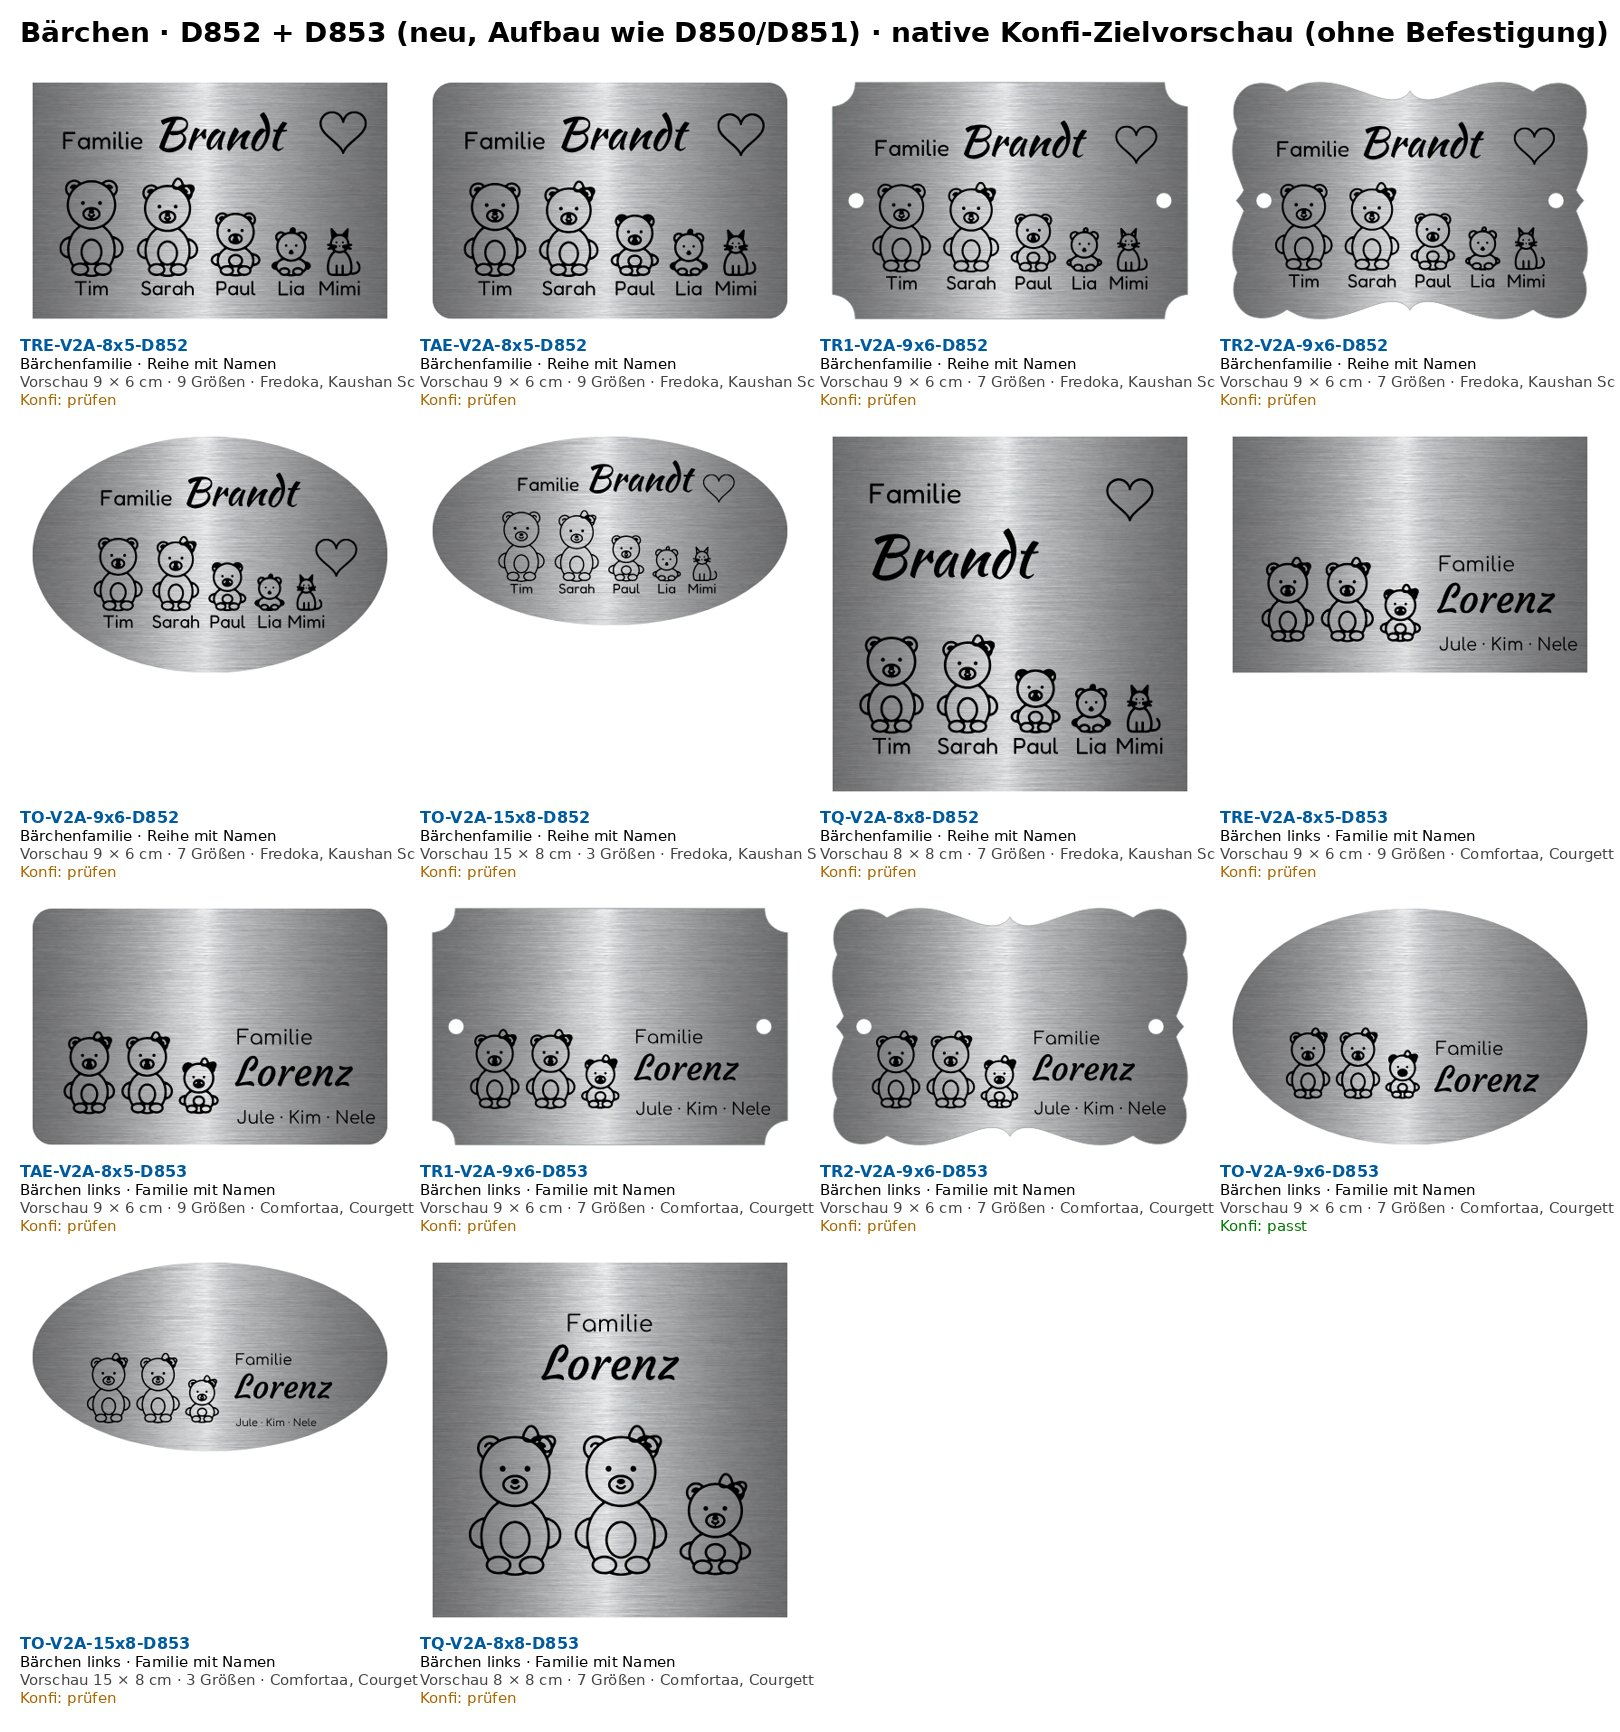
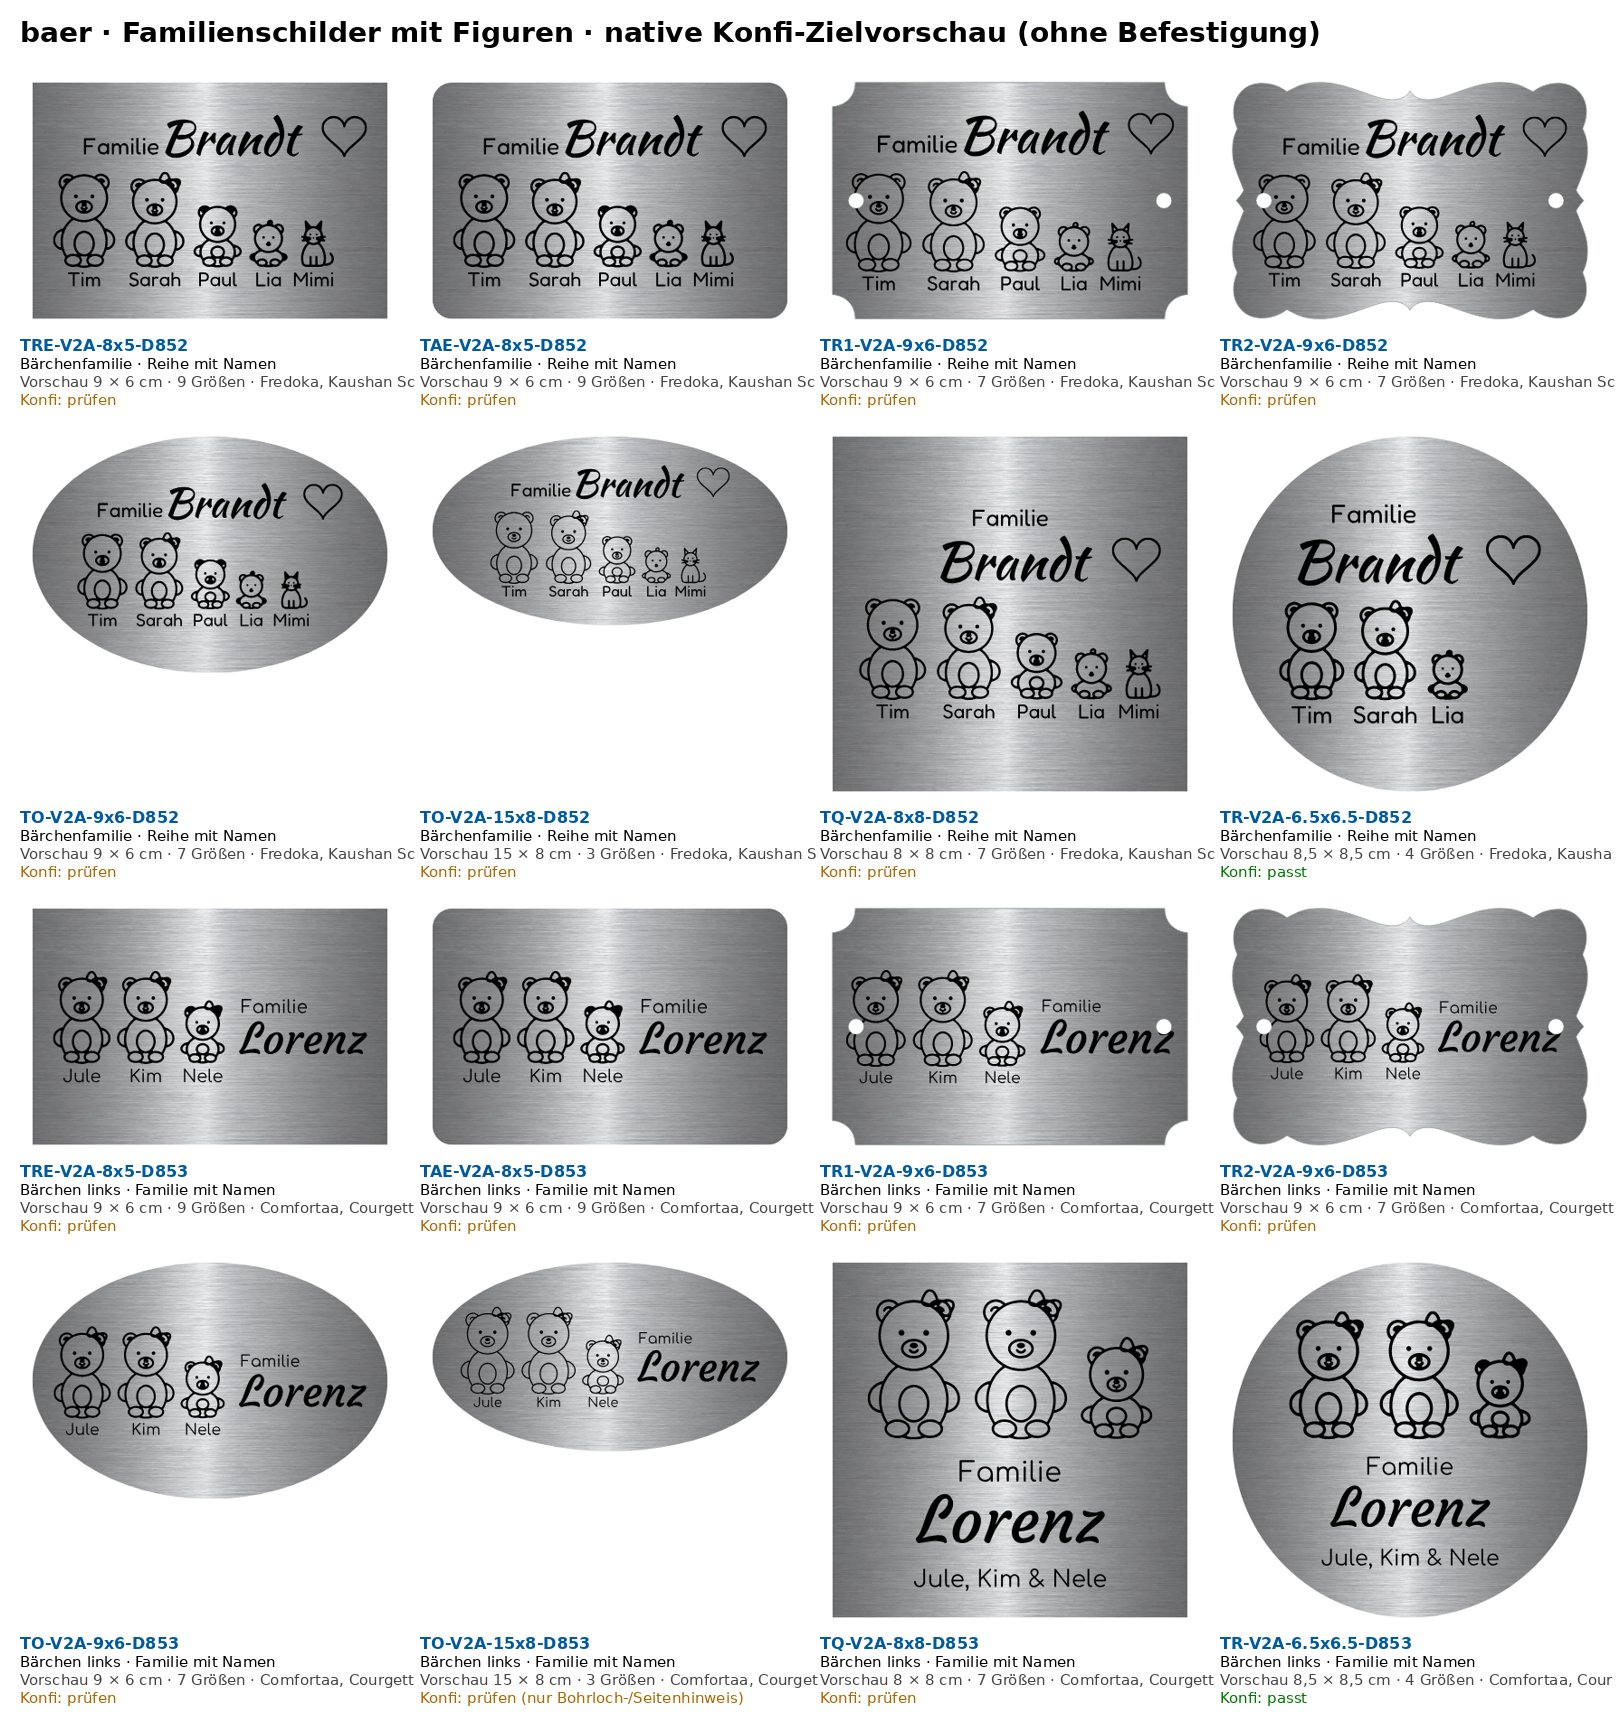
Kontaktbögen Familien-Figuren Neustart: alle 6 Stile neu gesetzt und gemessen, Bibliotheken Figuren/Pinguine, BERICHT (Issue #125)
Claude-Session: https://claude.ai/code/session_01TFZAfd3zBRL6y6PGwVXrsG

diff --git a/docs/handoffs/familien-figuren-20261102/BERICHT.md b/docs/handoffs/familien-figuren-20261102/BERICHT.md
@@ -1,0 +1,68 @@
+# Familienschilder mit Figuren und Sets – Bericht (Issue #125, Stand 02.11.2026, Neustart)
+
+Katalog-Branch `dev/familien-figuren-20261102` (Entwurfs-PR im Katalog), Kontaktbögen hier. Linie Edelstahl-Türschilder, Ziele je Design: Edelstahl + Acryl 3 mm schwarz/anthrazit (gleiche Designs). Freigabe: offen (nur Chris).
+
+## Was der Neustart geändert hat
+- Unfertiges des Vorgängers (D858/D859 ohne Bibliothek, Piktogramm-Figuren mit WC-Schild-Optik) als `git stash` „Vorgänger unfertig“ gesichert, nicht gelöscht; neu aufgebaut.
+- Katalog-main eingemischt (DESIGN-MASTER §7 „Keine großen Freiflächen, Gestaltung mittig“).
+- **Alle Designs neu gesetzt:** Titel + Figuren + Namen als Gruppe mittig, Gruppe so groß wie die Form zulässt (Rand je Form 2,2–6 mm). Jede Form hat ihre eigene Anordnung (Querformat: Titel über der Reihe bzw. Figuren links/Text rechts; Quadrat und Rund: zweizeiliger Titel, Figuren groß; Langformat: Figuren links, drei Textzeilen).
+- **„Richtige Familienschilder“ (Chris):** auf jedem Format stehen alle Familienmitglieder mit Namen – unter jeder Figur (inkl. Haustier) oder als Namenszeile („Tom, Anna & Ella“). Nachname ist immer die größte Schrift, „Familie“ bzw. „Hier wohnt Familie“ kleiner.
+
+## Bibliothek `motive-eigene/familien-figuren/<stil>/` (`kundenkonfi: false`)
+6 Stile × (7 Einzelfiguren + 123 Sets) = 780 Motive: Strich, **Figuren (neu: Minimal-Figuren, Hände ineinander)**, Bärchen, Eulen, Schildkröten, **Pinguine (neu)**. Sets: Paar M+F / F+F / M+M mit 0–4 Kindern, alleinerziehend Mutter/Vater mit 1–3 Kindern, je ohne / + Hund / + Katze; gleiche Fußlinie, Namensanker je Figur in `motive-eigene.json`.
+Übersichten: strich-, baer-, eule-, schildkroete-, figuren-, pinguin-bibliothek.jpg.
+
+## Designs (12 Entwürfe, 99 Design-Ordner)
+| Kennung | Name | Modus / Vorlage | Schriften | Motiv |
+|---|---|---|---|---|
+| D850 | Strichfamilie · Reihe mit Namen und Herzballon | Referenz KSFI-S-D1…D23 (Kordelschild) | Patrick Hand, Pacifico | ff-strich-mann-frau-junge-maedchen-hund + Sonne |
+| D851 | Strichfamilie links · Familie mit Namen | Referenz KSFI-S-D8 (gespiegelt) | Kalam, Courgette | ff-strich-mann-frau-maedchen (Langformat 4 Figuren) + Herz |
+| D852 | Bärchenfamilie · Reihe mit Namen | neu | Fredoka, Kaushan Script | ff-baer-…-katze + Herz |
+| D853 | Bärchen links · Familie mit Namen | neu | Comfortaa, Courgette | ff-baer-frau-frau-maedchen |
+| D854 | Eulenfamilie · Reihe mit Namen und Mond | neu | Baloo 2, Satisfy | ff-eule-… + Mond/Sterne |
+| D855 | Eulen auf dem Ast · Familie mit Namen | Referenz Bestand TQ-KS-D60/D61, TRE-AV2A-D67/D68 | Josefin Sans, Dancing Script | ff-eule-mann-frau-maedchen-baby + Ast |
+| D856 | Schildkrötenfamilie · Reihe mit Namen | neu | Comic Neue, Courgette | ff-schildkroete-… + Sonne |
+| D857 | Schildkröten-Parade · Hier wohnt Familie | neu | Patrick Hand, Satisfy | ff-schildkroete-frau-maedchen-baby auf Bodenlinie bis an den Rand + Sonne |
+| D858 | Figuren modern · Reihe mit Namen auf feiner Linie | neu | Josefin Sans, Playfair Display | ff-figuren-mann-frau-maedchen-junge-hund, Linie bis an den Rand |
+| D859 | Figuren modern links · Familie mit Namen | neu | Montserrat, Great Vibes | ff-figuren-mann-mann-junge |
+| D860 | Pinguinfamilie · Reihe mit Namen und Herz | neu | Caviar Dreams, Lobster | ff-pinguin-… + Herz |
+| D861 | Pinguine links · Familie mit Namen | neu | Raleway, Parisienne | ff-pinguin-frau-junge-baby (alleinerziehend) + Herz |
+
+Rund und teils Quadrat: kleinere Sets (3 Figuren), weil 5 Namen mit ≥ 3 mm Versalhöhe die Figuren sonst winzig machen.
+
+## Inventur Figuren-Designs (D850–D949) je Formatreihe
+| Formatreihe | vorher | nachher | angebotene Größen |
+|---|---|---|---|
+| 8×5 Rechteck / 8×5 abgerundet | je 8 | je 12 | ab 9×6 (8×5 nicht: Figuren zu fein) |
+| Retro 1 / Retro 2 9×6 | je 8 | je 12 | alle |
+| Oval 9×6 / Oval 15×8 | je 8 | je 12 | alle |
+| Quadrat 8×8 | 8 | 12 | alle |
+| **Rund 6,5** | 0 | **12** | ab 8,5 (6,5 nicht) |
+| 8×3,5 / 9×3 | je 1 | je 1 | alle (Issue: Strich einfach) |
+| **Ellipse 12×4** | 0 | **1** (D851) | ab 15×5 (12×4 nicht) |
+Summe 58 → 99 Design-Ordner. Kleinstreihen 5×2, 6×2, 7×2, 8×2 bewusst ohne Figuren.
+
+## Messung Freiflächen (flaeche-messen.py, je Bogen)
+| Bogen | Platten | Versatz max | Fläche | Höhe | Hinweise |
+|---|---|---|---|---|---|
+| strich | 17 (+2 Langformate zu flach für das Messraster) | x 0,6 % · y 1,5 % | 38–77 % | 48–85 % | 0 |
+| figuren | 16 | 0,4 / 0,9 % | 41–77 % | 55–85 % | 0 |
+| baer | 16 | 0,3 / 0,5 % | 38–71 % | 45–85 % | 1 (D853 Retro: Höhe 45 %) |
+| eule | 16 | 0,7 / 0,5 % | 42–72 % | 57–89 % | 0 |
+| schildkroete | 16 | 0,1 / 0,9 % | 38–83 % | 45–87 % | 0 |
+| pinguin | 16 | 0,4 / 0,7 % | 36–73 % | 43–86 % | 4 (D861 Querformat: Höhe 43–45 %) |
+Vorher (Vorgänger-Stand, nachgemessen): Versatz bis 21,7 % (D853), 5–6 % (D850 Oval, D857), Höhe bis 31 %.
+Begründung Resthinweise: D853/D861 sind „Figuren links, Text rechts“ – die Gruppe füllt 84–89 % der Breite, die Höhe liegt knapp am Richtwert (43–45 %), weil drei breite Tierfiguren nebeneinander stehen. Die Messwerte der Vorlagen-Vorschaubilder oben auf den Bögen strich/eule sind keine Designs.
+
+## Startdesign-Vorschlag
+**D850 (Strichfamilie mit Namen und Herzballon)** – das typische Familienschild schlechthin, nah an der Bestands-Referenz, alle Familienmitglieder mit Namen, liest sich auf jeder Form. Platz 2: **D858** (modern, für Erwachsenen-Haushalte, Konfi fast überall „passt“).
+
+## Offene Fragen an Chris
+1. Sollen einzelne Bibliotheksfiguren/Sets in den Kundenkonfi (`motive/motive.json`)? Bisher alle `kundenkonfi: false`.
+2. Figuren auf 8×5, Rund 6,5 und Ellipse 12×4 bewusst nicht angeboten (zu fein) – passt das?
+3. Konfi meldet bei manchen Platten „prüfen“ wegen Konturen 0,37–0,49 mm (Regel: ab 0,3 mm gravierbar) bzw. Bohrloch-Hinweise (Bewertung ohne Befestigung).
+
+## Selbstprüfung
+- Jeder Bogen einzeln angesehen: keine Überlappung, nichts abgeschnitten, kleinste Versalhöhe 3,08 mm auf der Mastergröße, Namen mit Abstand ≥ 2,6 mm.
+- Schwächen ehrlich: D856 Quadrat unten etwas Luft; D853/D861 Querformat knapp an der Höhe; Retro-Bohrlöcher (Vorschau) liegen teils auf Schrift – mit Befestigung weicht der Konfi aus.
+- Nicht gemacht: Igel als 7. Stil (Zeit), Hochformat (die Linie hat keine Hochformate).
